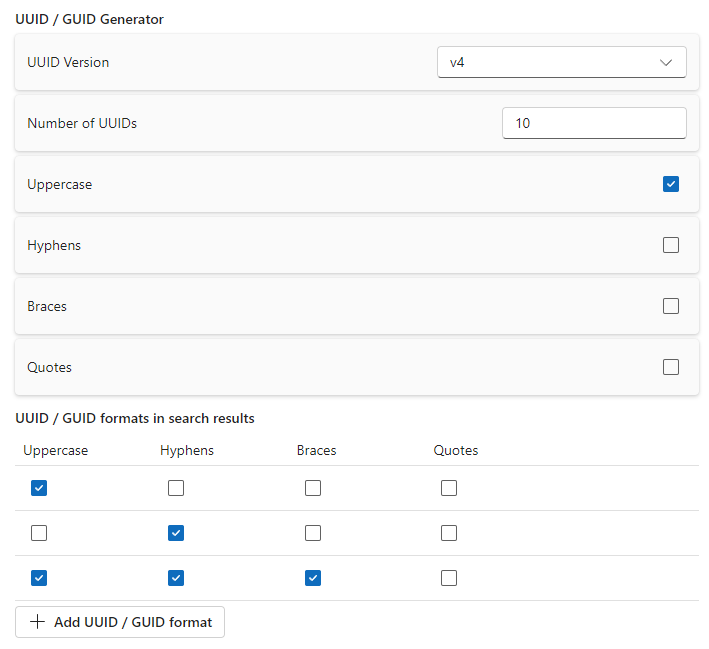
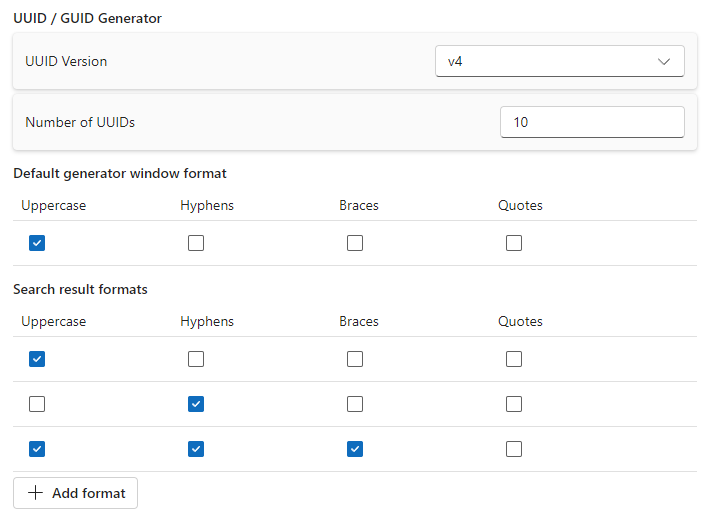
Enhanced settings screen and guid generation output

diff --git a/src/main/Extensions/UuidGenerator/UuidGeneratorExtension.ts b/src/main/Extensions/UuidGenerator/UuidGeneratorExtension.ts
@@ -38,6 +38,8 @@ export class UuidGeneratorExtension implements Extension {
     ) {}
 
     public getInstantSearchResultItems(searchTerm: string): InstantSearchResultItems {
+        const uuidFormats: UuidFormat[] = this.getSettingValue("searchResultFormats");
+
         let uuidSearchTerm = searchTerm;
         if (uuidSearchTerm.toLowerCase().startsWith("uuid") || uuidSearchTerm.toLowerCase().startsWith("guid")) {
             uuidSearchTerm = uuidSearchTerm.substring(4);
@@ -51,37 +53,30 @@ export class UuidGeneratorExtension implements Extension {
             quotes: false,
         });
         if (this.validateUuid(possibleUuid)) {
-            const formats: UuidFormat[] = this.getSettingValue("searchResultFormats");
-
             return {
                 after: [],
-                before: formats
-                    .filter((format) => {
-                        const formattedUuid = UuidGenerator.format(possibleUuid, format);
-                        return formattedUuid !== uuidSearchTerm;
-                    })
-                    .map((format) => {
-                        const formattedUuid = UuidGenerator.format(possibleUuid, format);
+                before: uuidFormats.map((format, index) => {
+                    const formattedUuid = UuidGenerator.format(possibleUuid, format);
 
-                        return {
-                            name: formattedUuid,
-                            description: "UUID Generator",
+                    return {
+                        name: formattedUuid,
+                        description: "UUID Generator",
+                        descriptionTranslation: {
+                            key: "generatorResult",
+                            namespace: "extension[UuidGenerator]",
+                        },
+                        id: "uuidGenerator:instantResult-" + index,
+                        image: this.getImage(),
+                        defaultAction: createCopyToClipboardAction({
+                            textToCopy: formattedUuid,
+                            description: "Copy UUID to clipboard",
                             descriptionTranslation: {
-                                key: "generatorResult",
+                                key: "copyUuidToClipboard",
                                 namespace: "extension[UuidGenerator]",
                             },
-                            id: "uuidGenerator:instantResult",
-                            image: this.getImage(),
-                            defaultAction: createCopyToClipboardAction({
-                                textToCopy: formattedUuid,
-                                description: "Copy UUID to clipboard",
-                                descriptionTranslation: {
-                                    key: "copyUuidToClipboard",
-                                    namespace: "extension[UuidGenerator]",
-                                },
-                            }),
-                        };
-                    }),
+                        }),
+                    };
+                }),
             };
         }
 
@@ -89,37 +84,32 @@ export class UuidGeneratorExtension implements Extension {
             return createEmptyInstantSearchResult();
         }
 
-        const generatorFormat: UuidFormat = this.getSettingValue("generatorFormat");
-        const uuid = this.generateUuid(
-            this.getSettingValue("uuidVersion"),
-            generatorFormat.uppercase,
-            generatorFormat.hyphens,
-            generatorFormat.braces,
-            generatorFormat.quotes,
-        );
+        const generatedUuid = this.generateUuid(this.getSettingValue("uuidVersion"), false, true, false, false);
 
         return {
             after: [],
-            before: [
-                {
-                    name: uuid,
+            before: uuidFormats.map((format, index) => {
+                const formattedUuid = UuidGenerator.reformat(generatedUuid, format);
+
+                return {
+                    name: formattedUuid,
                     description: "UUID Generator",
                     descriptionTranslation: {
                         key: "generatorResult",
                         namespace: "extension[UuidGenerator]",
                     },
-                    id: "uuidGenerator:instantResult",
+                    id: "uuidGenerator:instantResult-" + index,
                     image: this.getImage(),
                     defaultAction: createCopyToClipboardAction({
-                        textToCopy: uuid,
+                        textToCopy: formattedUuid,
                         description: "Copy UUID to clipboard",
                         descriptionTranslation: {
                             key: "copyUuidToClipboard",
                             namespace: "extension[UuidGenerator]",
                         },
                     }),
-                },
-            ],
+                };
+            }),
         };
     }
 
@@ -156,9 +146,10 @@ export class UuidGeneratorExtension implements Extension {
                 hyphens: "Hyphens",
                 braces: "Braces",
                 quotes: "Quotes",
-                searchResultFormats: "UUID / GUID formats in search results",
-                addSearchResultFormat: "Add UUID / GUID format",
-                removeSearchResultFormat: "Remove UUID / GUID format",
+                defaultGeneratorFormat: "Default generator window format",
+                searchResultFormats: "Search result formats",
+                addSearchResultFormat: "Add format",
+                removeSearchResultFormat: "Remove format",
             },
             "de-CH": {
                 copyUuidToClipboard: "UUID in die Zwischenablage kopieren",
@@ -171,9 +162,10 @@ export class UuidGeneratorExtension implements Extension {
                 hyphens: "Bindestriche",
                 braces: "Geschweifte Klammern",
                 quotes: "Anführungszeichen",
-                searchResultFormats: "UUID / GUID Formate in den Suchresultaten",
-                addSearchResultFormat: "UUID / GUID Format hinzufügen",
-                removeSearchResultFormat: "UUID / GUID Format entfernen",
+                defaultGeneratorFormat: "Standardformat im Generator Fenster",
+                searchResultFormats: "Formate der Suchresultate",
+                addSearchResultFormat: "Format hinzufügen",
+                removeSearchResultFormat: "Format entfernen",
             },
         };
     }

diff --git a/src/renderer/Extensions/UuidGenerator/UuidGeneratorSettings.tsx b/src/renderer/Extensions/UuidGenerator/UuidGeneratorSettings.tsx
@@ -72,7 +72,6 @@ export const UuidGeneratorSettings = () => {
 
     const removeSearchResultFormat = (index: number) => {
         const newSearchResultFormats = searchResultFormats.filter((_, loopIndex) => loopIndex !== index);
-        console.debug(newSearchResultFormats);
         setSearchResultFormats(newSearchResultFormats);
     };
 
@@ -125,24 +124,43 @@ export const UuidGeneratorSettings = () => {
                         />
                     }
                 />
-                <Setting
-                    label={t("uppercase")}
-                    control={
-                        <Checkbox checked={uppercase} onChange={(_, { checked }) => setUppercase(checked === true)} />
-                    }
-                />
-                <Setting
-                    label={t("hyphens")}
-                    control={<Checkbox checked={hyphens} onChange={(_, { checked }) => setHyphens(checked === true)} />}
-                />
-                <Setting
-                    label={t("braces")}
-                    control={<Checkbox checked={braces} onChange={(_, { checked }) => setBraces(checked === true)} />}
-                />
-                <Setting
-                    label={t("quotes")}
-                    control={<Checkbox checked={quotes} onChange={(_, { checked }) => setQuotes(checked === true)} />}
-                />
+                <div style={{ paddingTop: 8 }}>
+                    <Label weight="semibold">{t("defaultGeneratorFormat")}</Label>
+                </div>
+                <Table>
+                    <TableHeader>
+                        <TableRow>
+                            <TableHeaderCell>{t("uppercase")}</TableHeaderCell>
+                            <TableHeaderCell>{t("hyphens")}</TableHeaderCell>
+                            <TableHeaderCell>{t("braces")}</TableHeaderCell>
+                            <TableHeaderCell>{t("quotes")}</TableHeaderCell>
+                            <TableHeaderCell style={{ width: 32 }} />
+                        </TableRow>
+                    </TableHeader>
+                    <TableBody>
+                        <TableRow key={"defaultRow"}>
+                            <TableCell>
+                                <Checkbox
+                                    checked={uppercase}
+                                    onChange={(_, { checked }) => setUppercase(checked === true)}
+                                />
+                            </TableCell>
+                            <TableCell>
+                                <Checkbox
+                                    checked={hyphens}
+                                    onChange={(_, { checked }) => setHyphens(checked === true)}
+                                />
+                            </TableCell>
+                            <TableCell>
+                                <Checkbox checked={braces} onChange={(_, { checked }) => setBraces(checked === true)} />
+                            </TableCell>
+                            <TableCell>
+                                <Checkbox checked={quotes} onChange={(_, { checked }) => setQuotes(checked === true)} />
+                            </TableCell>
+                            <TableCell></TableCell>
+                        </TableRow>
+                    </TableBody>
+                </Table>
                 <div style={{ paddingTop: 8 }}>
                     <Label weight="semibold">{t("searchResultFormats")}</Label>
                 </div>
@@ -153,6 +171,7 @@ export const UuidGeneratorSettings = () => {
                             <TableHeaderCell>{t("hyphens")}</TableHeaderCell>
                             <TableHeaderCell>{t("braces")}</TableHeaderCell>
                             <TableHeaderCell>{t("quotes")}</TableHeaderCell>
+                            <TableHeaderCell style={{ width: 32 }} />
                         </TableRow>
                     </TableHeader>
                     <TableBody>
